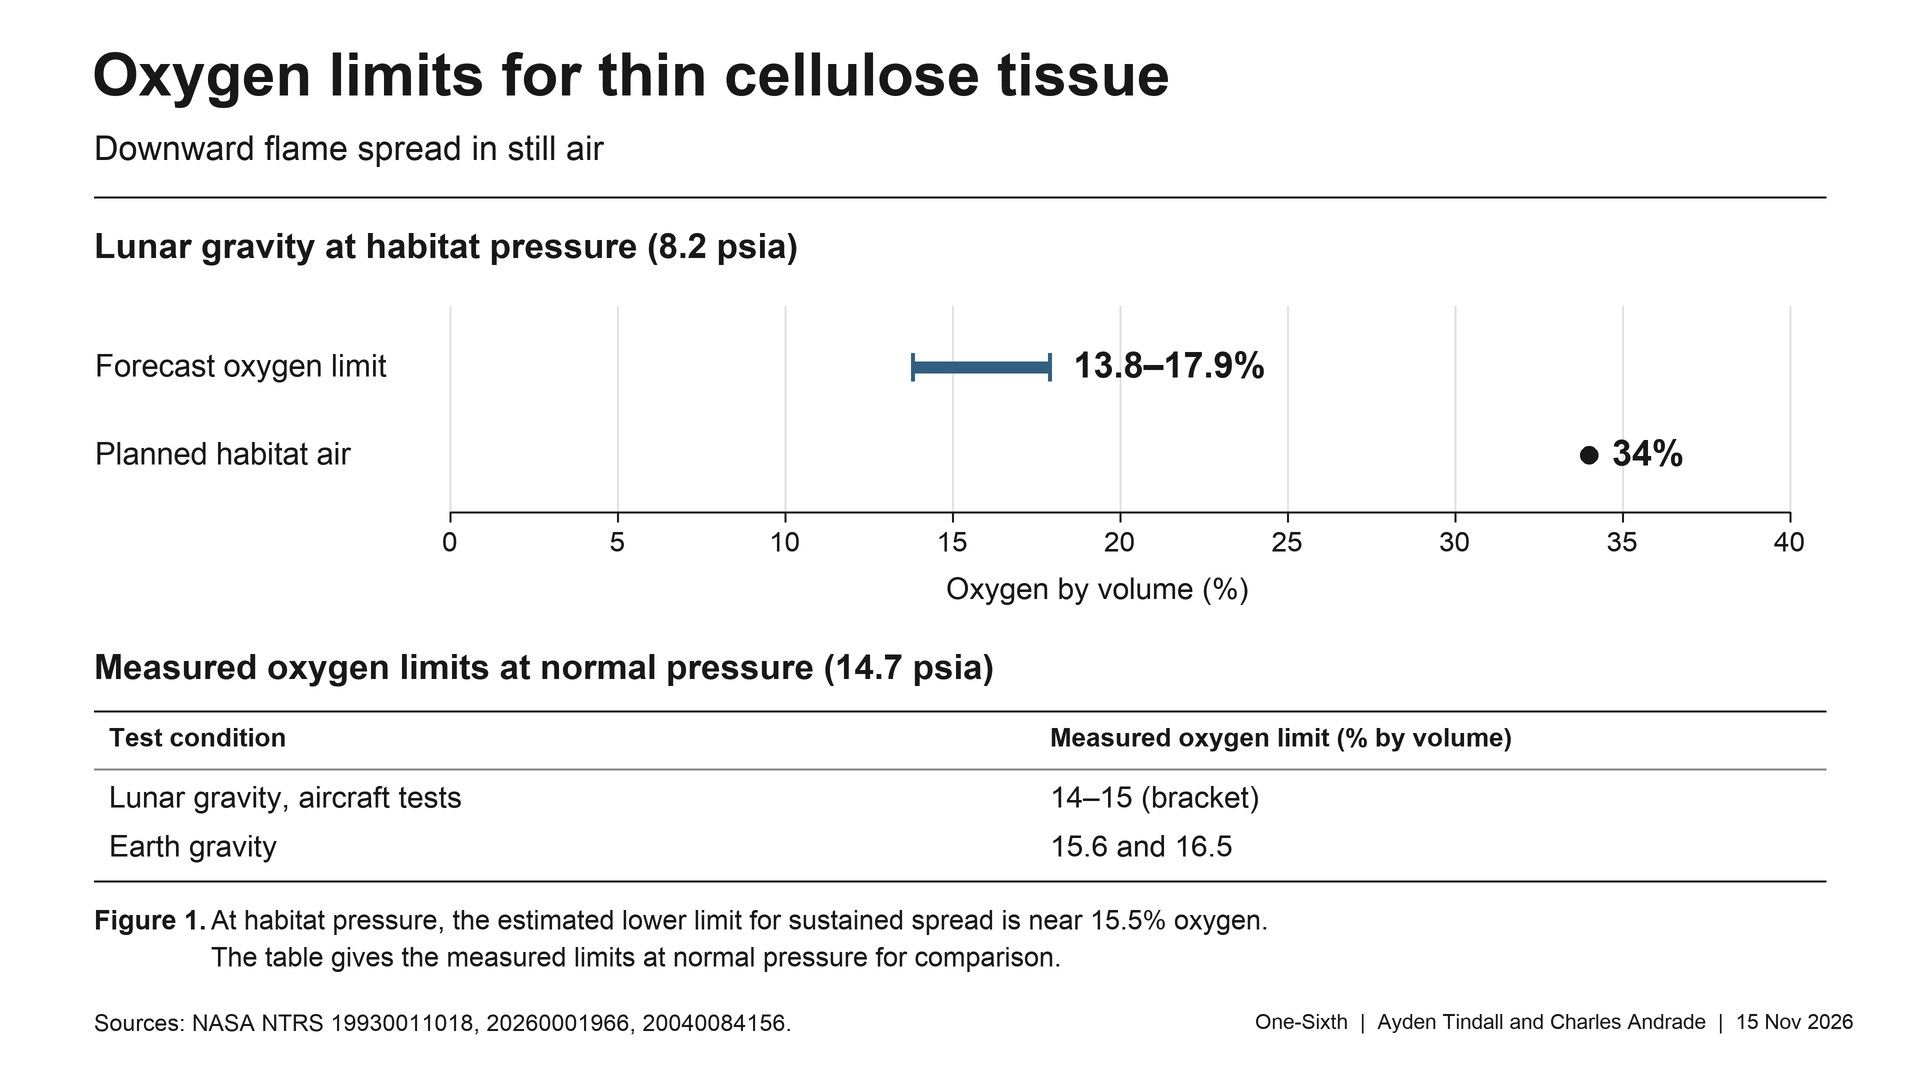
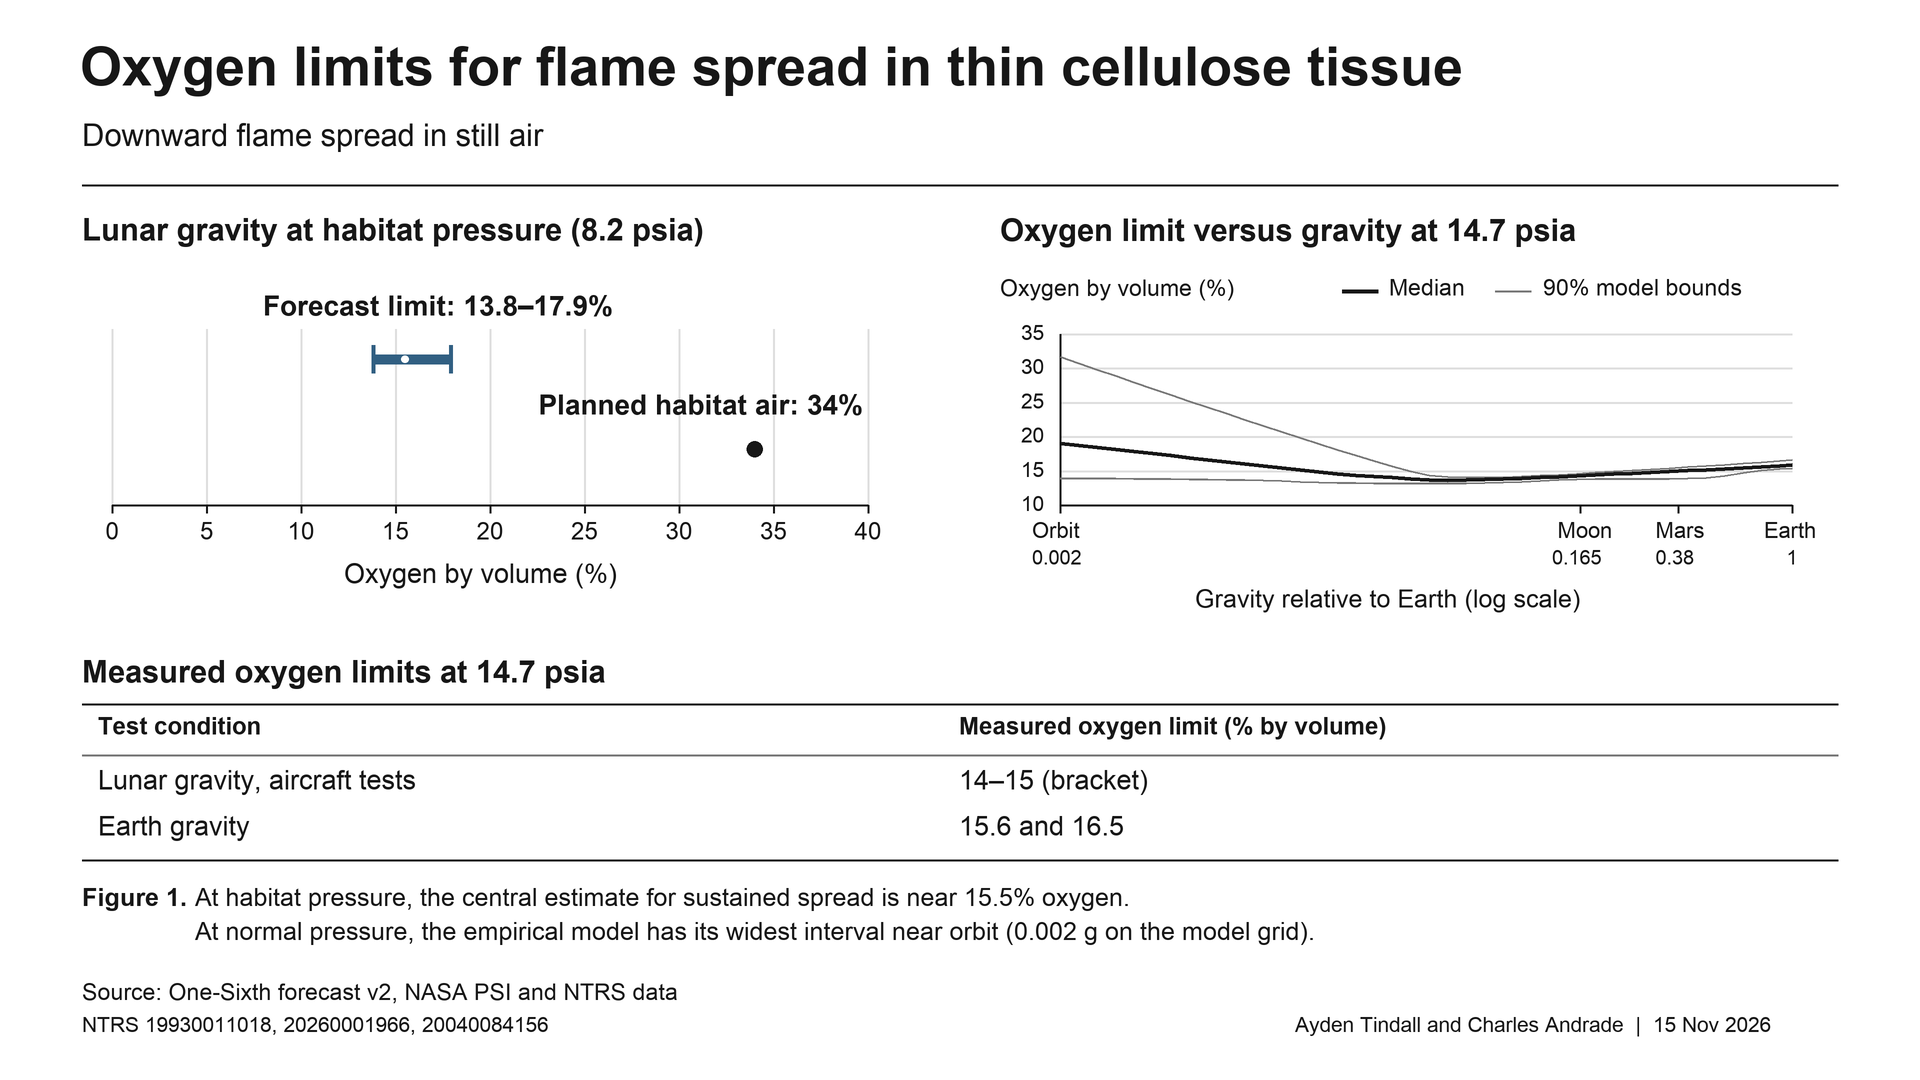
Plot the gravity-dependent oxygen limit alongside the habitat comparison

diff --git a/blender/plate.py b/blender/plate.py
@@ -1,4 +1,4 @@
-"""Draw the One-Sixth technical figure in camera-space coordinates."""
+"""Camera-space marks for the One-Sixth oxygen-limit figure."""
 import json
 import math
 from pathlib import Path
@@ -7,81 +7,126 @@ ROOT = Path(__file__).resolve().parent
 DATA = json.loads((ROOT / "scene_data.json").read_text())
 W, H = 1920, 1080
 
-BLACK = "#181818"
+INK = "#171717"
 WHITE = "#ffffff"
-GRID = "#e1e1e1"
-RULE = "#888888"
+GRID = "#dedede"
+BOUND = "#777777"
 BLUE = "#315f82"
 
 
 def plate():
-    shapes = [("rect", "White page", (0, 0, W, H), WHITE)]
+    shapes = [("rect", "Page", (0, 0, W, H), WHITE)]
 
-    def label(name, x, y, value, size=32, bold=False):
-        face = "bold" if bold else "regular"
-        shapes.append(("text", name, x, y, value, size, face, BLACK))
+    def label(name, x, y, text, size=26, bold=False):
+        shapes.append(("text", name, x, y, text, size, "bold" if bold else "regular", INK))
 
-    def line(name, x1, y1, x2, y2, color=RULE, width=2):
-        shapes.append(("line", name, [(x1, y1), (x2, y2)], color, width))
+    def line(name, x0, y0, x1, y1, color=INK, width=2):
+        shapes.append(("line", name, [(x0, y0), (x1, y1)], color, width))
+
+    def dot(name, x, y, radius, color):
+        shapes.append(("dot", name, x, y, radius, color))
 
     headline = DATA["headline"]
     habitat = DATA["atmospheres"]["habitat"]
-    normal_pressure = DATA["atmospheres"]["earth_air"]["psia"]
+    pressure = DATA["atmospheres"]["earth_air"]["psia"]
     low, high = headline["habitat_forecast_range"]
-    center = headline["habitat_forecast_central"]
-    aircraft_low, aircraft_high = headline["moon_limit_14_7_psia_measured_bracket"]
-    earth_limits = [row["o2"] for row in DATA["evidence"] if row["kind"] == "earth_limit"]
-    date = DATA["meta"]["forecast_version"].split(", registered ")[1]
-    tick_step = 5
-    maximum = tick_step * math.ceil(habitat["o2_max"] / tick_step)
-    plot_left, plot_right = 450, 1790
+    central = headline["habitat_forecast_central"]
+    aircraft = headline["moon_limit_14_7_psia_measured_bracket"]
+    earth = [row["o2"] for row in DATA["evidence"] if row["kind"] == "earth_limit"]
+    version, date = DATA["meta"]["forecast_version"].split(", registered ")
+    stations = DATA["stations"]
 
+    label("Title", 80, 46, "Oxygen limits for flame spread in thin cellulose tissue", 54, True)
+    label("Scope", 82, 123, "Downward flame spread in still air", 31)
+    line("Title rule", 82, 185, 1838, 185)
+
+    label("Habitat panel", 82, 218, f"Lunar gravity at habitat pressure ({habitat['psia']:g} psia)", 31, True)
+    label("Gravity panel", 1000, 218, f"Oxygen limit versus gravity at {pressure:g} psia", 31, True)
+
+    # Left panel. The concentration of the atmosphere and the limiting interval
+    # refer to the same pressure and use the same linear oxygen scale.
+    oxygen_max = 10 * math.ceil(habitat["o2_max"] / 10)
+    left, right = 112, 868
     def oxygen_x(value):
-        return plot_left + value * (plot_right - plot_left) / maximum
+        return left + (right - left) * value / oxygen_max
 
-    label("Title", 92, 52, "Oxygen limits for thin cellulose tissue", 60, True)
-    label("Spread mode", 94, 135, "Downward flame spread in still air", 34)
-    line("Title rule", 94, 197, 1826, 197, BLACK)
-    label("Conditions", 94, 233, f"Lunar gravity at habitat pressure ({habitat['psia']:g} psia)", 35, True)
-
-    axis_y = 512
-    for value in range(0, maximum + 1, tick_step):
+    axis = 505
+    for value in range(0, oxygen_max + 1, 5):
         x = oxygen_x(value)
-        line("Scale grid", x, 306, x, axis_y, GRID)
-        line("Scale tick", x, axis_y, x, axis_y + 10, BLACK)
-        digits = str(value)
-        label("Scale value", x - len(digits) * 8, axis_y + 20, digits, 28)
-    line("Scale baseline", plot_left, axis_y, plot_right, axis_y, BLACK)
-    label("Scale units", 946, 577, "Oxygen by volume (%)", 30)
+        line("Scale grid", x, 329, x, axis, GRID)
+        line("Scale tick", x, axis, x, axis + 8)
+        label("Scale value", x - len(str(value)) * 6.7, axis + 17, str(value), 24)
+    line("Scale axis", left, axis, right, axis)
+    label("Scale units", 344, 563, "Oxygen by volume (%)", 27)
+    a, b = oxygen_x(low), oxygen_x(high)
+    label("Forecast interval label", a - 110, 295, f"Forecast limit: {low:g}–{high:g}%", 28, True)
+    line("Forecast interval", a, 359, b, 359, BLUE, 10)
+    for x in (a, b):
+        line("Forecast endpoint", x, 345, x, 373, BLUE, 4)
+    dot("Central estimate", oxygen_x(central), 359, 3.7, WHITE)
+    planned_x = oxygen_x(habitat["o2"])
+    dot("Habitat reference", planned_x, 449, 8, INK)
+    label("Habitat reference label", planned_x - 216, 394, f"Planned habitat air: {habitat['o2']:g}%", 28, True)
 
-    range_y, air_y = 367, 455
-    label("Forecast row", 95, range_y - 13, "Forecast oxygen limit", 31)
-    label("Air row", 95, air_y - 13, "Planned habitat air", 31)
-    left, right = oxygen_x(low), oxygen_x(high)
-    line("Forecast interval", left, range_y, right, range_y, BLUE, 12)
-    for edge in (left, right):
-        line("Forecast range endpoint", edge, range_y - 14, edge, range_y + 14, BLUE, 4)
-    label("Forecast value", right + 24, range_y - 16, f"{low:g}–{high:g}%", 36, True)
-    point = oxygen_x(habitat["o2"])
-    shapes.append(("dot", "Habitat reference point", point, air_y, 9, BLACK))
-    label("Habitat reference value", point + 23, air_y - 16, f"{habitat['o2']:g}%", 36, True)
+    # Right panel. Use the empirical curve throughout its own domain, including
+    # its finite near-orbit grid point. Do not extend the physics fit to orbit.
+    curve = DATA["curves"]["model_1"]["p14_7"]
+    gravity = curve["g"]
+    gravity_min, gravity_max = gravity[0], gravity[-1]
+    y_step = 5
+    y_min = y_step * math.floor(min(curve["p5"]) / y_step)
+    y_max = y_step * math.ceil(max(curve["p95"]) / y_step)
+    gx0, gx1, gy0, gy1 = 1060, 1792, 334, 505
 
-    label("Measured table title", 94, 654, f"Measured oxygen limits at normal pressure ({normal_pressure:g} psia)", 35, True)
-    line("Table top", 94, 711, 1826, 711, BLACK)
-    label("Test header", 109, 728, "Test condition", 26, True)
-    label("Measurement header", 1050, 728, "Measured oxygen limit (% by volume)", 26, True)
-    line("Table header rule", 94, 769, 1826, 769)
-    label("Aircraft test", 109, 786, "Lunar gravity, aircraft tests", 30)
-    label("Aircraft result", 1050, 786, f"{aircraft_low:g}–{aircraft_high:g} (bracket)", 30)
-    label("Earth test", 109, 835, "Earth gravity", 30)
-    label("Earth result", 1050, 835, " and ".join(f"{v:g}" for v in earth_limits), 30)
-    line("Table bottom", 94, 881, 1826, 881, BLACK)
+    def gx(g):
+        return gx0 + (gx1 - gx0) * math.log(g / gravity_min) / math.log(gravity_max / gravity_min)
 
-    label("Caption", 94, 910, "Figure 1.", 27, True)
-    label("Caption text", 211, 910,
-          f"At habitat pressure, the estimated lower limit for sustained spread is near {center:g}% oxygen.", 27)
-    label("Caption continuation", 211, 947,
-          "The table gives the measured limits at normal pressure for comparison.", 27)
-    label("Sources", 94, 1014, "Sources: NASA NTRS 19930011018, 20260001966, 20040084156.", 23)
-    label("Credit", 1255, 1014, f"One-Sixth  |  Ayden Tindall and Charles Andrade  |  {date}", 21)
+    def gy(o2):
+        return gy1 - (gy1 - gy0) * (o2 - y_min) / (y_max - y_min)
+
+    label("Gravity units", 1000, 279, "Oxygen by volume (%)", 23)
+    for value in range(y_min, y_max + 1, y_step):
+        y = gy(value)
+        label("Oxygen tick label", gx0 - 39, y - 9, str(value), 21)
+        line("Oxygen grid", gx0, y, gx1, y, GRID)
+    line("Gravity left axis", gx0, gy0, gx0, gy1)
+    line("Gravity bottom axis", gx0, gy1, gx1, gy1)
+
+    for station in stations:
+        x = gx(station["g"])
+        line("Gravity tick", x, gy1, x, gy1 + 8)
+        label("Station", x - len(station["label"]) * 5.6, gy1 + 17, station["label"], 22)
+        value = f"{station['g']:g}"
+        label("Station gravity", x - len(value) * 5.6, gy1 + 45, value, 20)
+    label("Gravity axis title", 1195, 589, "Gravity relative to Earth (log scale)", 25)
+
+    for field, name, color, width in (("p5", "Lower bound", BOUND, 2),
+                                      ("p95", "Upper bound", BOUND, 2),
+                                      ("p50", "Median", INK, 4)):
+        points = [(gx(g), gy(v)) for g, v in zip(gravity, curve[field])]
+        shapes.append(("line", name, points, color, width))
+    line("Median key", 1342, 291, 1378, 291, INK, 4)
+    label("Median key label", 1389, 279, "Median", 23)
+    line("Interval key", 1495, 291, 1531, 291, BOUND, 2)
+    label("Interval key label", 1543, 279, "90% model bounds", 23)
+
+    label("Table title", 82, 660, f"Measured oxygen limits at {pressure:g} psia", 31, True)
+    line("Table top", 82, 704, 1838, 704)
+    label("Test header", 98, 717, "Test condition", 24, True)
+    label("Measurement header", 959, 717, "Measured oxygen limit (% by volume)", 24, True)
+    line("Table header rule", 82, 755, 1838, 755, BOUND)
+    label("Aircraft test", 98, 770, "Lunar gravity, aircraft tests", 27)
+    label("Aircraft value", 959, 770, f"{aircraft[0]:g}–{aircraft[1]:g} (bracket)", 27)
+    label("Earth test", 98, 816, "Earth gravity", 27)
+    label("Earth value", 959, 816, " and ".join(f"{v:g}" for v in earth), 27)
+    line("Table bottom", 82, 860, 1838, 860)
+
+    label("Caption label", 82, 888, "Figure 1.", 25, True)
+    label("Caption first sentence", 195, 888,
+          f"At habitat pressure, the central estimate for sustained spread is near {central:g}% oxygen.", 25)
+    label("Caption second sentence", 195, 922,
+          f"At normal pressure, the empirical model has its widest interval near orbit ({gravity_min:g} g on the model grid).", 25)
+    label("Source", 82, 983, f"Source: One-Sixth forecast {version}, NASA PSI and NTRS data", 23)
+    label("Report identifiers", 82, 1017, "NTRS 19930011018, 20260001966, 20040084156", 21)
+    label("Team", 1295, 1017, f"Ayden Tindall and Charles Andrade  |  {date}", 21)
     return shapes
